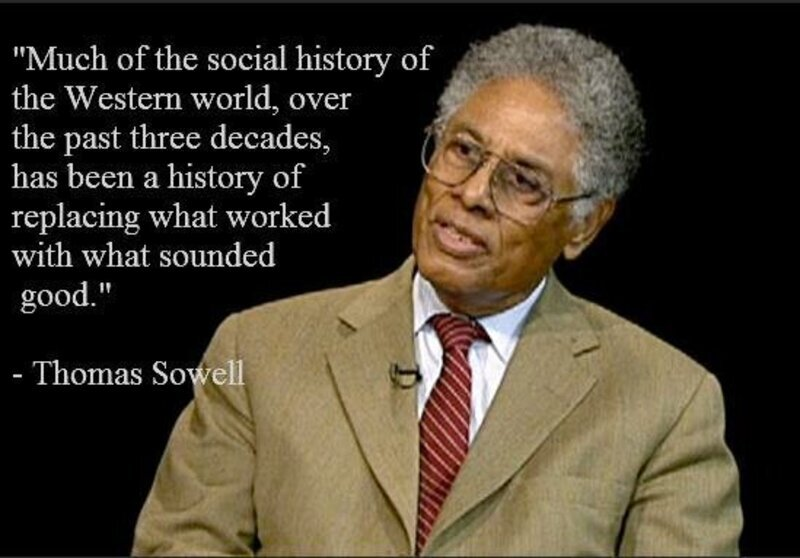
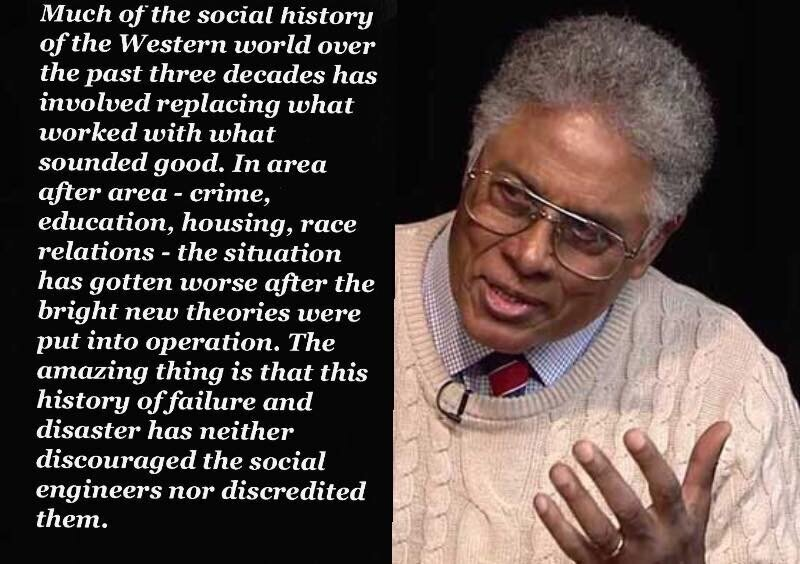
content update

diff --git a/content/memes/thomas-sowell/more-whites-were-brought-as-slaves-to-no.md b/content/memes/thomas-sowell/more-whites-were-brought-as-slaves-to-no.md
@@ -1,7 +1,7 @@
 ---
-title: 'More whites were brought as slaves to North Africa than'
+title: 'More whites were brought as slaves to North Africa than blacks brought as slaves to the United States'
 ---
 
-![More whites were brought as slaves to North Africa than blacks brought as slaves to the United States](/memes/thomas-sowell/more-whites-were-brought-as-slaves-to-no.jpg)
+![More whites were brought as slaves to North Africa than blacks brought as slaves to the United States](/memes/thomas-sowell/more-whites-were-brought-as-slaves-to-no-the-united-states.jpg)
 
-"More whites were brought as slaves to North Africa than blacks brought as slaves to the United States or to the 13 colonies from which it was formed. White slaves were still being bought and sold in the Ottoman Empire, decades after blacks were freed in the United States." - Thoms Sowell
+"More whites were brought as slaves to North Africa than blacks brought as slaves to the United States or to the 13 colonies from which it was formed. White slaves were still being bought and sold in the Ottoman Empire, decades after blacks were freed in the United States." - Thomas Sowell

diff --git a/content/memes/thomas-sowell/much-of-the-social-history-of-the-western-world-long.md b/content/memes/thomas-sowell/much-of-the-social-history-of-the-western-world-long.md
@@ -1,7 +1,7 @@
 ---
-title: 'Much of the social history of the Western world'
+title: 'Much of the social history of the western world'
 ---
 
-![Much of the social history of the Western world](/memes/thomas-sowell/much-of-the-social-history-of-the-western-world.jpg)
+![Much of the social history of the western world](/memes/thomas-sowell/much-of-the-social-history-of-the-western-world-long.jpg)
 
 "Much of the social history of the Western world over the past three decades has involved replacing what worked with what sounded good. In area after area - crime, education, housing, race relations - the situation has gotten worse after the bright new theories were put into operation. The amazing thing is that this history of failure and disaster has neither discouraged the social engineers nor discredited them." - Thomas Sowell

diff --git a/content/memes/thomas-sowell/it-is-fascinating-to-watch-politicians-come-up.md b/content/memes/thomas-sowell/it-is-fascinating-to-watch-politicians-come-up.md
@@ -1,0 +1,7 @@
+---
+title: 'It is fascinating to watch politicians come up'
+---
+
+![It is fascinating to watch politicians come up](/memes/thomas-sowell/it-is-fascinating-to-watch-politicians-come-up.jpg)
+
+"It is fascinating to watch politicians come up with 'solutions' to problems that are a direct result of their previous solutions. In many cases the most efficient thing to do would be to repeal their previous solution and stop being so gung-ho for creating new solutions." - Thomas Sowell

diff --git a/content/memes/thomas-sowell/it-is-not-enough-for-us-to-discover-belatedly.md b/content/memes/thomas-sowell/it-is-not-enough-for-us-to-discover-belatedly.md
@@ -1,0 +1,7 @@
+---
+title: 'It is not enough for us to discover belatedly that we have been lied to'
+---
+
+![It is not enough for us to discover belatedly that we have been lied to](/memes/thomas-sowell/it-is-not-enough-for-us-to-discover-belatedly.jpg)
+
+"It is not enough for us to discover belatedly that we have been lied to. It is far more important that we remember who the liars are and not be so gullible next time." - Thomas Sowell

diff --git a/content/memes/thomas-sowell/much-of-the-social-history-of-the-wester-world.md b/content/memes/thomas-sowell/much-of-the-social-history-of-the-wester-world.md
@@ -1,0 +1,7 @@
+---
+title: 'Much of the social history of the wester'
+---
+
+![Much of the social history of the wester](/memes/thomas-sowell/much-of-the-social-history-of-the-wester-world.jpg)
+
+"Much of the social history of the Western world, over the past three decades, has been a history of replacing what worked with what sounded good." - Thomas Sowell

diff --git a/content/memes/thomas-sowell/it-was-thomas-edison-who-brought-us-electrity.md b/content/memes/thomas-sowell/it-was-thomas-edison-who-brought-us-electrity.md
@@ -1,0 +1,7 @@
+---
+title: 'It was Thomas Edison who brought us electricity not the Sierra Club'
+---
+
+![It was Thomas Edison who brought us electricity not the Sierra Club](/memes/thomas-sowell/it-was-thomas-edison-who-brought-us-electrity.jpg)
+
+It was Thomas Edison who brought us electricity not the Sierra Club.

diff --git a/content/memes/thomas-sowell/more-whites-were-brought-as-slaves-to-no-the-united-states.md b/content/memes/thomas-sowell/more-whites-were-brought-as-slaves-to-no-the-united-states.md
@@ -1,0 +1,7 @@
+---
+title: "More whites were brought as slaves to no the united states"
+---
+
+![More whites were brought as slaves to no the united states](/memes/thomas-sowell/more-whites-were-brought-as-slaves-to-no-the-united-states.jpg)
+
+More whites were brought as slaves to no the united states

diff --git a/content/memes/thomas-sowell/despite-a-voluminous-and-often-fervent-literature.md b/content/memes/thomas-sowell/despite-a-voluminous-and-often-fervent-literature.md
@@ -1,0 +1,7 @@
+---
+title: "Despite a voluminous and often fervent literature"
+---
+
+![Despite a voluminous and often fervent literature](/memes/thomas-sowell/despite-a-voluminous-and-often-fervent-literature.jpg)
+
+Despite a voluminous and often fervent literature

diff --git a/content/memes/thomas-sowell/blacks-were-not-enslaved-becuase-they-were-black.md b/content/memes/thomas-sowell/blacks-were-not-enslaved-becuase-they-were-black.md
@@ -1,0 +1,7 @@
+---
+title: "Blacks were not enslaved becuase they were black"
+---
+
+![Blacks were not enslaved becuase they were black](/memes/thomas-sowell/blacks-were-not-enslaved-becuase-they-were-black.jpg)
+
+Blacks were not enslaved becuase they were black

diff --git a/content/memes/thomas-sowell/during-the-1920s-and-the-early-1930s-fascism.md b/content/memes/thomas-sowell/during-the-1920s-and-the-early-1930s-fascism.md
@@ -1,0 +1,7 @@
+---
+title: "During the 1920s and the early 1930s fascism"
+---
+
+![During the 1920s and the early 1930s fascism](/memes/thomas-sowell/during-the-1920s-and-the-early-1930s-fascism.jpg)
+
+During the 1920s and the early 1930s fascism

diff --git a/content/memes/thomas-sowell/the-first-lesson-of-economics-is-scarcity.md b/content/memes/thomas-sowell/the-first-lesson-of-economics-is-scarcity.md
@@ -1,0 +1,7 @@
+---
+title: "The first lesson of economics is scarcity"
+---
+
+![The first lesson of economics is scarcity](/memes/thomas-sowell/the-first-lesson-of-economics-is-scarcity.jpg)
+
+The first lesson of economics is scarcity

diff --git a/content/memes/thomas-sowell/ours-may-become-the-first-civilization.md b/content/memes/thomas-sowell/ours-may-become-the-first-civilization.md
@@ -1,0 +1,7 @@
+---
+title: "Ours may become the first civilization"
+---
+
+![Ours may become the first civilization](/memes/thomas-sowell/ours-may-become-the-first-civilization.jpg)
+
+Ours may become the first civilization
